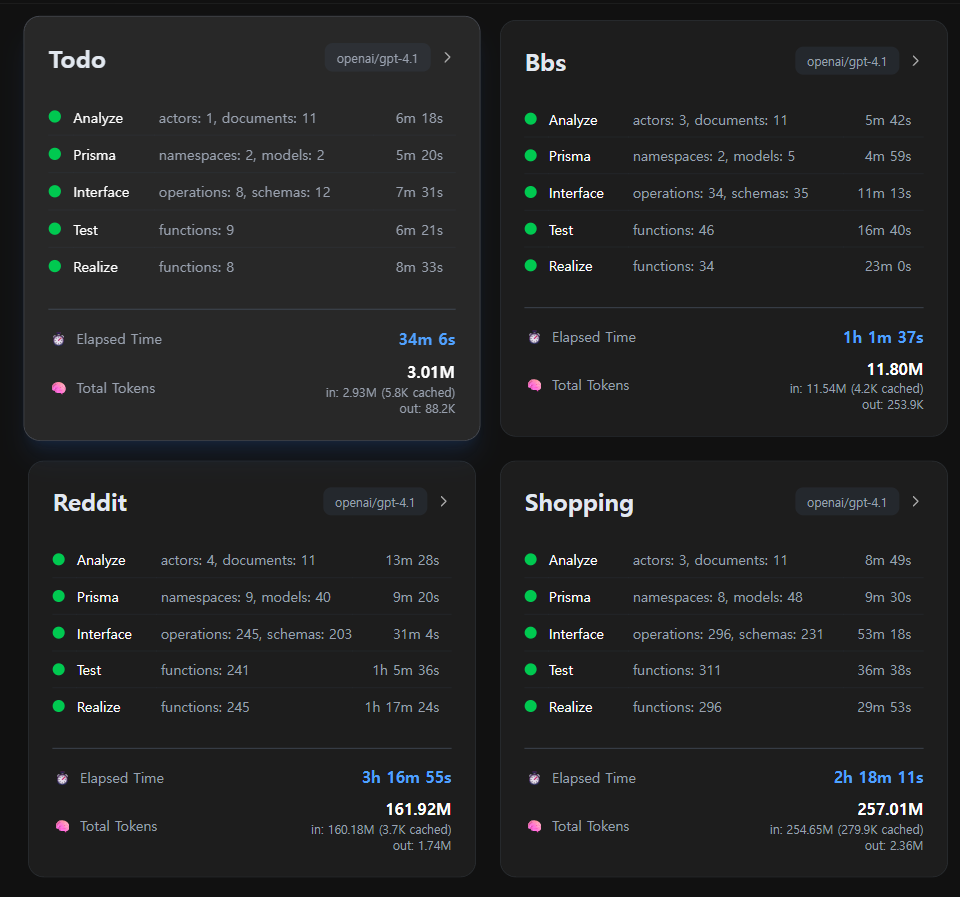
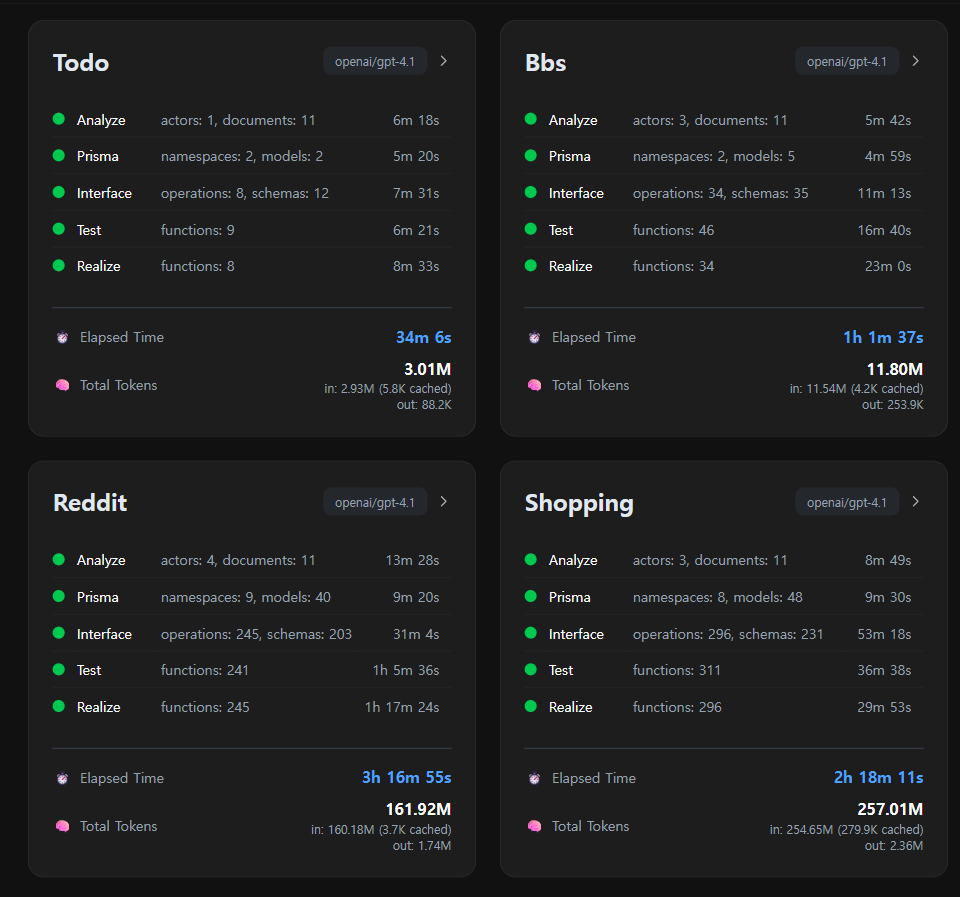
complete screenshot

diff --git a/website/src/movies/screenshot/AutoBeScreenshotMovie.tsx b/website/src/movies/screenshot/AutoBeScreenshotMovie.tsx
@@ -5,12 +5,12 @@ import { useEffect, useState } from "react";
 import AutoBeDemoModelMovie from "../demo/AutoBeDemoModelMovie";
 
 export default function AutoBeScreenshotMovie() {
-  const [model, setModel] = useState("openai/gpt-4.1");
+  const [model, setModel] = useState<string>(window ? getValue() : "");
   useEffect(() => {
-    const value: string | null = new URLSearchParams(
-      window.location.search,
-    ).get("model");
-    if (value) setModel(value);
+    setModel(getValue());
   }, []);
   return <AutoBeDemoModelMovie model={model} />;
 }
+
+const getValue = (): string =>
+  new URLSearchParams(window.location.search).get("model") ?? "openai/gpt-4.1";
